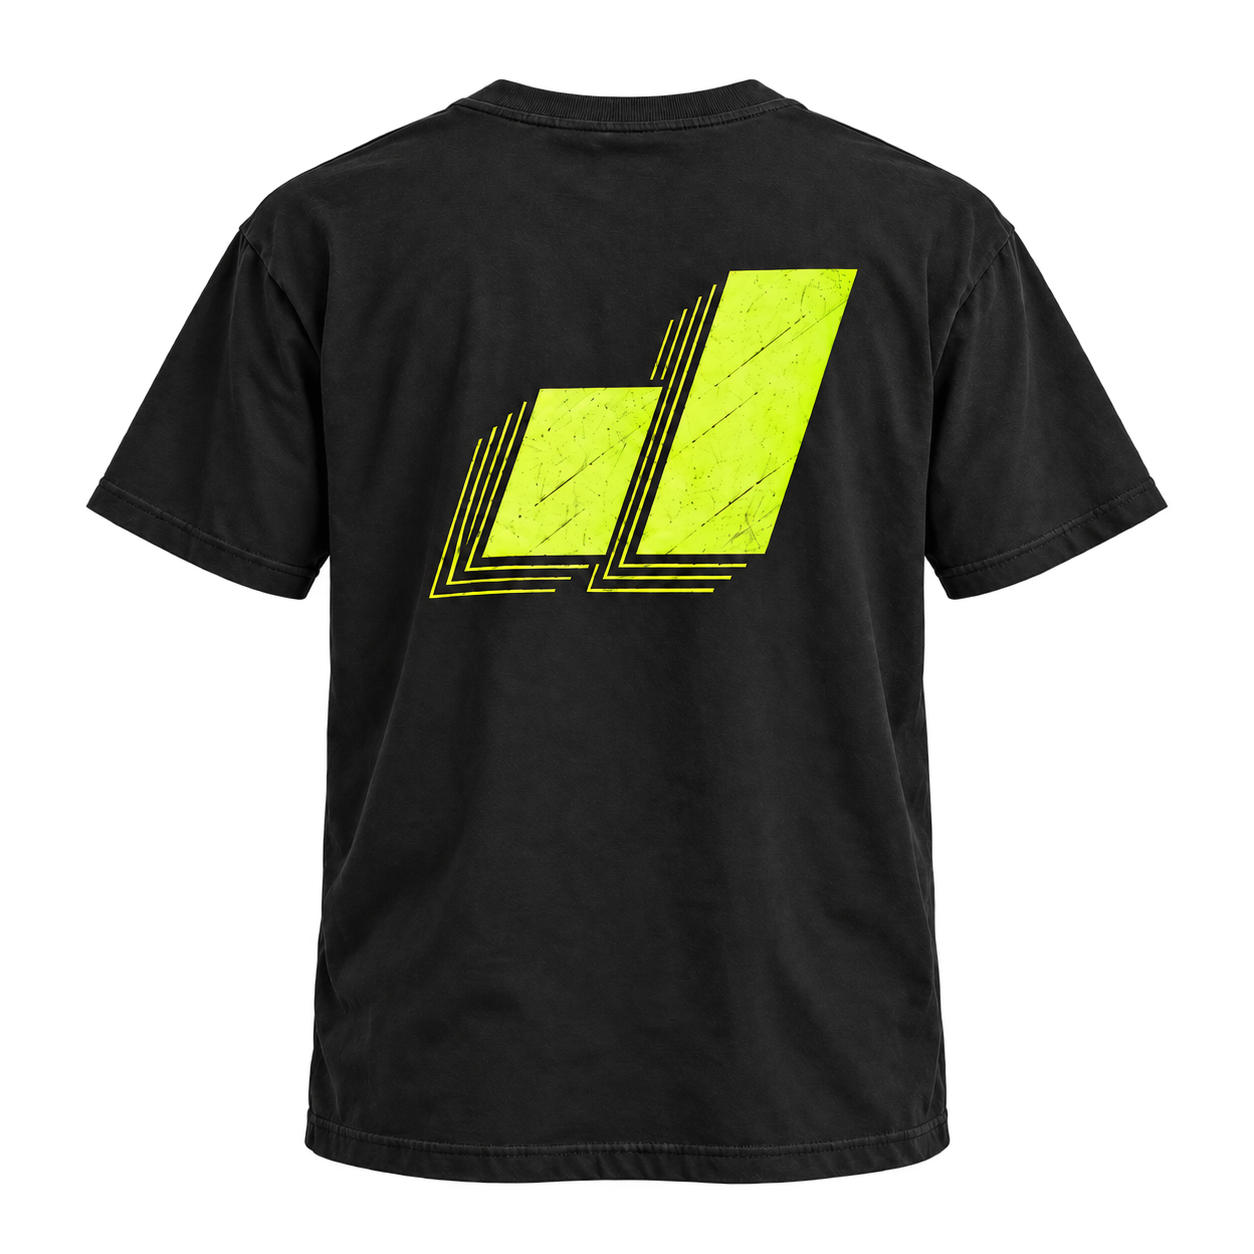
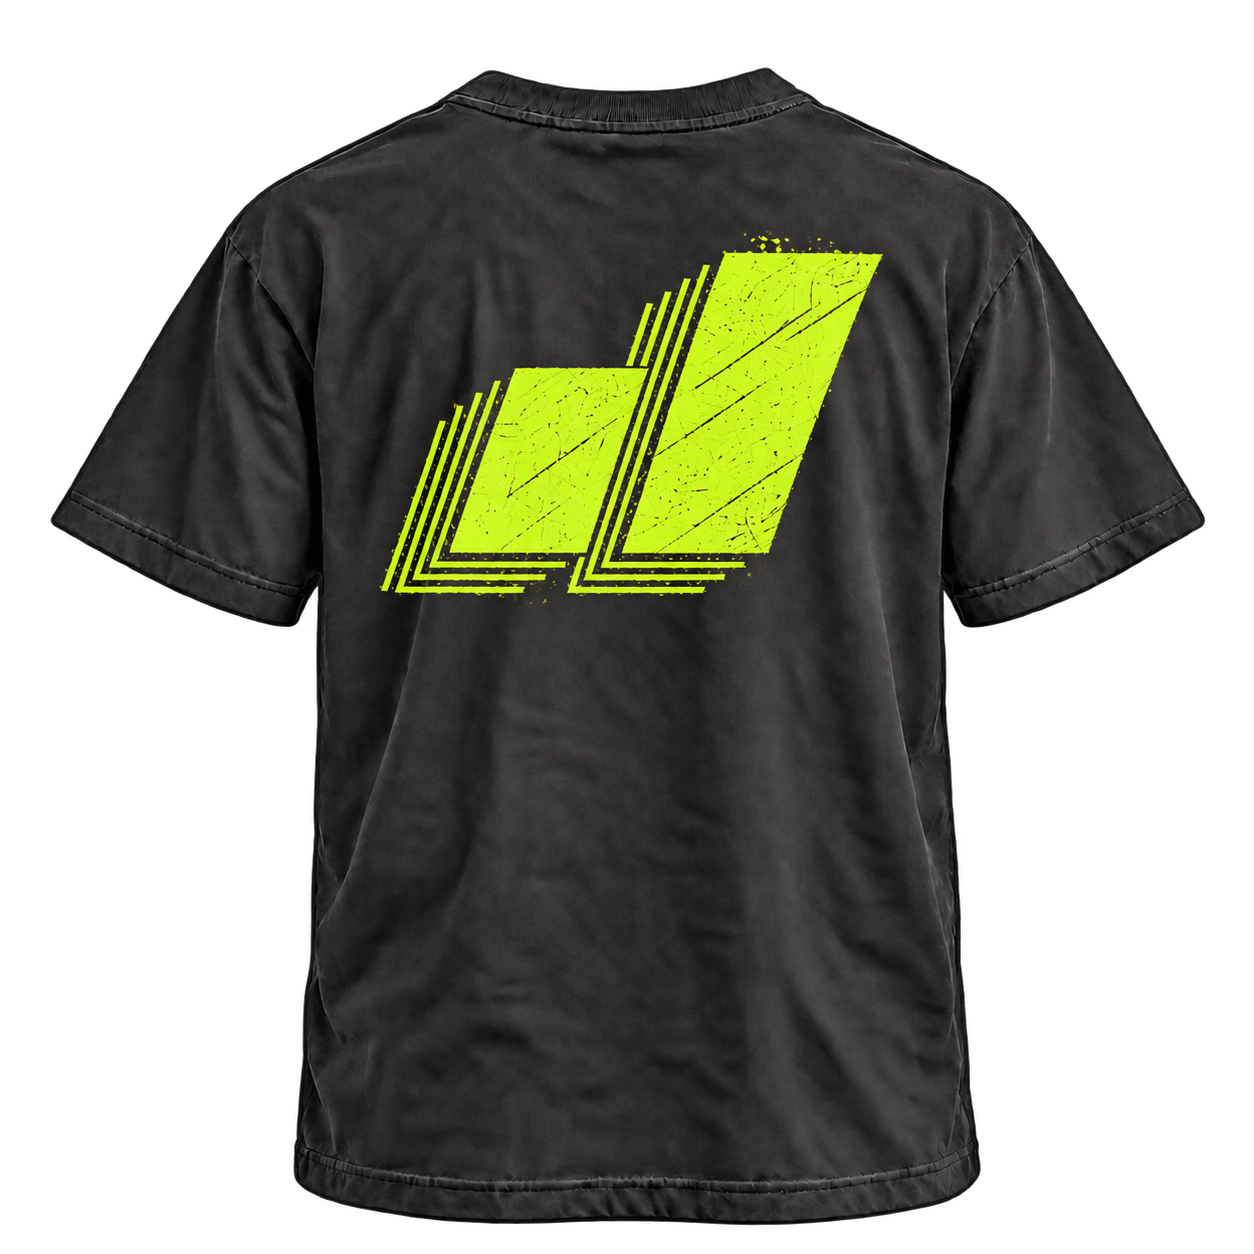
Refine Survival Club artwork and synchronize storefront assets

diff --git a/scripts/prepare_catalog_assets.py b/scripts/prepare_catalog_assets.py
@@ -13,7 +13,7 @@ for old in assets.glob('club-*'):
 def export(name,image):
  image=image.convert('RGBA')
  filebase=name+'-cutout'
- widths=sorted(set(min(w,image.width) for w in [480,800,1200]))
+ widths=[480,800] if name.endswith('front-detail') else sorted(set(min(w,image.width) for w in [480,800,1200]))
  for width in widths:
   image.resize((width,round(image.height*width/image.width)),Image.Resampling.LANCZOS).save(assets/f'{filebase}-{width}.webp',quality=86,method=6)
  fallback=image.copy();fallback.thumbnail((1200,1200),Image.Resampling.LANCZOS)
@@ -23,6 +23,7 @@ for color in ['black','white']:
  for view in ['front','back']:
   export(f'club-{color}-{view}',Image.open(masters/f'{color}-{view}.png'))
  export(f'club-{color}-detail',Image.open(masters/f'{color}-back.png').crop((365,200,925,760)))
+export('club-black-front-detail',Image.open(masters/'black-front.png').crop((600,220,920,540)))
 cap=Image.open(masters/'cap-pair.png').resize((1300,560),Image.Resampling.LANCZOS)
 export('club-cap-front',cap.crop((0,30,535,535)))
 export('club-cap-side',cap.crop((535,40,1300,535)))

diff --git a/originals/catalog/artwork/BLACK-BACK-UPDATE.md b/originals/catalog/artwork/BLACK-BACK-UPDATE.md
@@ -1,0 +1,7 @@
+# Black tee artwork correction
+
+Used the built-in image tool. Final master: ../cutouts/black-back.png. Plain intermediate master: ../cutouts/black-back-plain.png. Supplied source graphic: black-back-artwork.png.
+
+Final prompt: Apply the supplied artwork literally to the upper central back of the blank black tee. Preserve the lime double parallelograms, trailing outline strokes on the left and bottom, chipped edges, paint splatters, fine diagonal scratches, proportions, tilt, and color. Keep the garment silhouette, collar, sleeves, stitching, folds, texture, lighting, canvas, and true transparent background. No additional text or redesign.
+
+Back-detail exports are crops of the final back master. Front-detail exports crop the existing front master at (600, 220, 920, 540); no new text or artwork was generated for that view.
